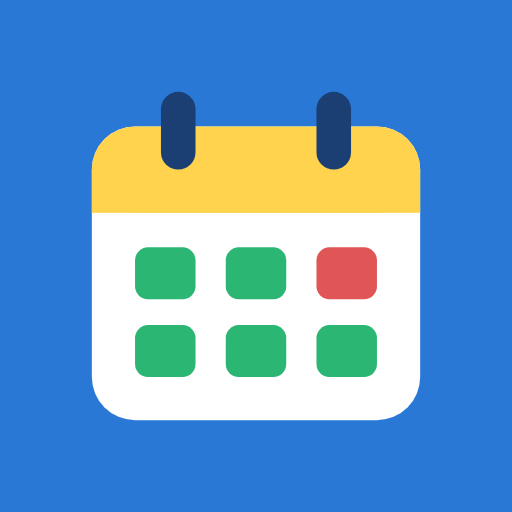
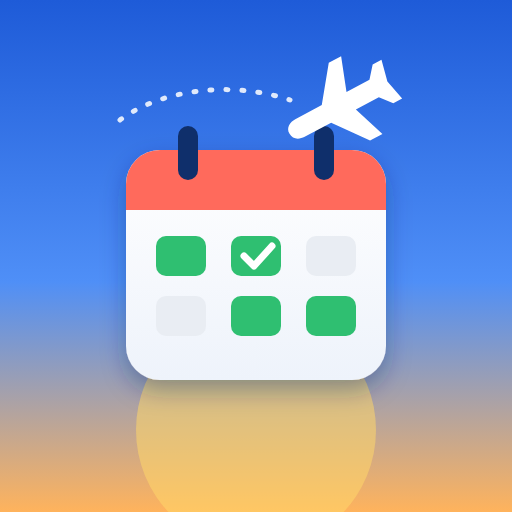
Icono nuevo de la app: calendario con avión al atardecer
Claude-Session: https://claude.ai/code/session_01TPryHUnQo1oDXviMSv6T9a

diff --git a/public/sw.js b/public/sw.js
@@ -1,6 +1,6 @@
 // DíasLibres: la web se puede instalar como app. Siempre se pide la versión nueva y,
 // sin conexión, se muestra la última guardada. Los precios y reservas (/api) nunca se guardan.
-const CACHE = 'diaslibres-v1';
+const CACHE = 'diaslibres-v2';
 const SHELL = ['/', '/styles.css', '/app.js', '/manifest.webmanifest', '/icon-192.png'];
 
 self.addEventListener('install', (e) => {
